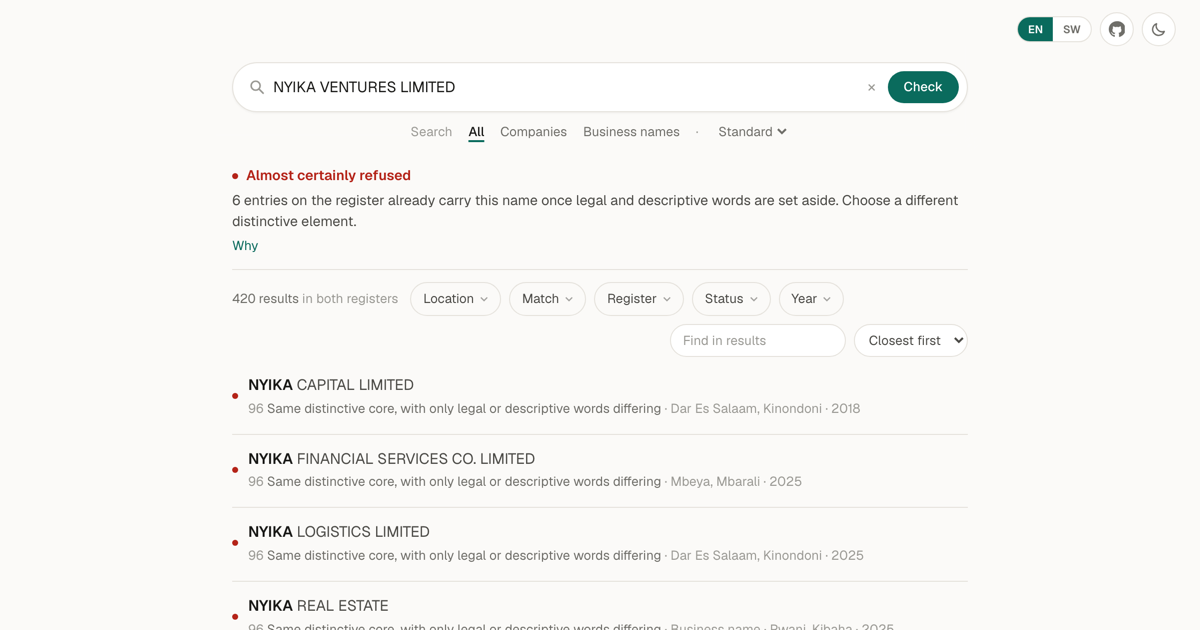
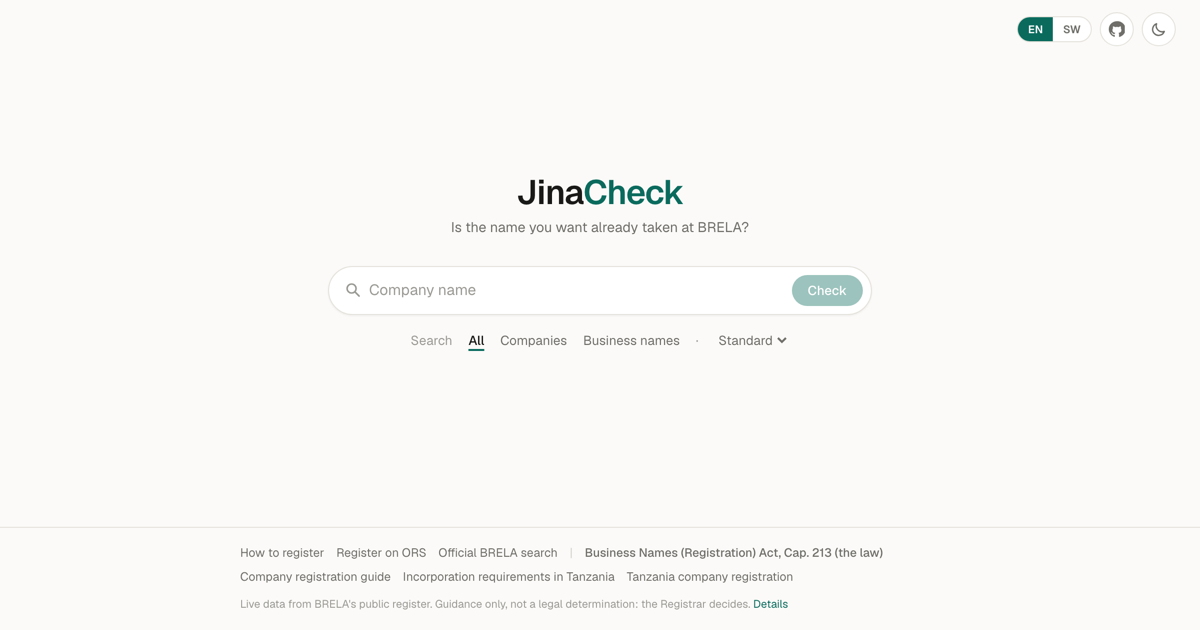
feat: update copy functionality with a menu for selecting copy options

diff --git a/src/components/ui.tsx b/src/components/ui.tsx
@@ -54,74 +54,116 @@ async function copyText(text: string): Promise<boolean> {
 }
 
 /**
- * Icon button that copies `value` and briefly confirms.
+ * Copy button with a choice of what to copy.
  *
- * Hidden until the row is hovered on pointer devices, but always visible on
- * small screens, where there is no hover to reveal it.
+ * A register entry is useful two ways: the bare name, to paste into a form, and
+ * the whole record, to keep alongside it. Rather than guess, the button opens a
+ * short menu. It stays visible while that menu is open, otherwise it would
+ * vanish the moment the pointer left the row.
  */
-export function CopyButton({
-  value,
+export function CopyMenu({
+  options,
   label = "Copy",
   doneLabel = "Copied",
 }: {
-  value: string;
+  options: Array<{ label: string; value: string }>;
   label?: string;
   doneLabel?: string;
 }) {
-  const [state, setState] = useState<"idle" | "done" | "failed">("idle");
+  const [open, setOpen] = useState(false);
+  const [done, setDone] = useState(false);
+  const ref = useRef<HTMLDivElement>(null);
 
   useEffect(() => {
-    if (state === "idle") return;
-    const id = setTimeout(() => setState("idle"), 1600);
+    if (!open) return;
+    const onDown = (e: MouseEvent) => {
+      if (ref.current && !ref.current.contains(e.target as Node)) setOpen(false);
+    };
+    const onKey = (e: KeyboardEvent) => {
+      if (e.key === "Escape") setOpen(false);
+    };
+    document.addEventListener("mousedown", onDown);
+    document.addEventListener("keydown", onKey);
+    return () => {
+      document.removeEventListener("mousedown", onDown);
+      document.removeEventListener("keydown", onKey);
+    };
+  }, [open]);
+
+  useEffect(() => {
+    if (!done) return;
+    const id = setTimeout(() => setDone(false), 1600);
     return () => clearTimeout(id);
-  }, [state]);
+  }, [done]);
 
   return (
-    <button
-      type="button"
-      onClick={async (e) => {
-        e.stopPropagation();
-        setState((await copyText(value)) ? "done" : "failed");
-      }}
-      title={state === "done" ? doneLabel : label}
-      aria-label={label}
-      className={`shrink-0 rounded p-1 transition-opacity hover:bg-raised focus-visible:opacity-100 sm:opacity-0 sm:group-hover:opacity-100 ${
-        state === "done" ? "text-clear sm:opacity-100" : "text-faint hover:text-ink"
-      }`}
-    >
-      {state === "done" ? (
-        <svg viewBox="0 0 16 16" className="size-3.5" aria-hidden>
-          <path
-            d="M3.5 8.5l3 3 6-7"
-            fill="none"
-            stroke="currentColor"
-            strokeWidth="1.6"
-            strokeLinecap="round"
-            strokeLinejoin="round"
-          />
-        </svg>
-      ) : (
-        <svg viewBox="0 0 16 16" className="size-3.5" aria-hidden>
-          <rect
-            x="5.5"
-            y="5.5"
-            width="8"
-            height="8"
-            rx="1.5"
-            fill="none"
-            stroke="currentColor"
-            strokeWidth="1.3"
-          />
-          <path
-            d="M10.5 3.5v-1a1 1 0 0 0-1-1h-6a1 1 0 0 0-1 1v6a1 1 0 0 0 1 1h1"
-            fill="none"
-            stroke="currentColor"
-            strokeWidth="1.3"
-            strokeLinecap="round"
-          />
-        </svg>
+    <div ref={ref} className="relative">
+      <button
+        type="button"
+        onClick={(e) => {
+          e.stopPropagation();
+          setOpen((s) => !s);
+        }}
+        title={done ? doneLabel : label}
+        aria-label={label}
+        aria-expanded={open}
+        className={`shrink-0 rounded p-1 transition-opacity hover:bg-raised focus-visible:opacity-100 sm:opacity-0 sm:group-hover:opacity-100 ${
+          done ? "text-clear sm:opacity-100" : "text-faint hover:text-ink"
+        } ${open ? "bg-raised text-ink sm:opacity-100" : ""}`}
+      >
+        {done ? (
+          <svg viewBox="0 0 16 16" className="size-3.5" aria-hidden>
+            <path
+              d="M3.5 8.5l3 3 6-7"
+              fill="none"
+              stroke="currentColor"
+              strokeWidth="1.6"
+              strokeLinecap="round"
+              strokeLinejoin="round"
+            />
+          </svg>
+        ) : (
+          <svg viewBox="0 0 16 16" className="size-3.5" aria-hidden>
+            <rect
+              x="5.5"
+              y="5.5"
+              width="8"
+              height="8"
+              rx="1.5"
+              fill="none"
+              stroke="currentColor"
+              strokeWidth="1.3"
+            />
+            <path
+              d="M10.5 3.5v-1a1 1 0 0 0-1-1h-6a1 1 0 0 0-1 1v6a1 1 0 0 0 1 1h1"
+              fill="none"
+              stroke="currentColor"
+              strokeWidth="1.3"
+              strokeLinecap="round"
+            />
+          </svg>
+        )}
+      </button>
+
+      {open && (
+        <div className="absolute right-0 z-30 mt-1 w-max min-w-32 overflow-hidden rounded-lg border border-line bg-surface py-1 shadow-(--shadow-md)">
+          {options.map((o) => (
+            <button
+              key={o.label}
+              type="button"
+              onClick={async (e) => {
+                e.stopPropagation();
+                setOpen(false);
+                setDone(await copyText(o.value));
+              }}
+              className="block w-full px-3 py-1.5 text-left text-[13px] text-ink-soft hover:bg-raised hover:text-ink"
+            >
+              {o.label}
+            </button>
+          ))}
+        </div>
       )}
-    </button>
+    </div>
   );
 }
 

diff --git a/src/components/result-row.tsx b/src/components/result-row.tsx
@@ -4,7 +4,7 @@ import { useState } from "react";
 
 import type { ScoredEntity } from "@/lib/types";
 import { useCopy } from "./lang";
-import { CopyButton, Dot } from "./ui";
+import { CopyMenu, Dot } from "./ui";
 
 function formatDate(value: string | null): string | null {
   if (!value) return null;
@@ -57,6 +57,22 @@ export function ResultRow({ entity, terms }: { entity: ScoredEntity; terms: stri
     closed ? t.closedNote : null,
     entity.hasCharges ? t.chargesNote : null,
   ].filter(Boolean);
+
+  /** The whole record as pasteable text, labelled in the current language. */
+  const detailText = [
+    entity.name,
+    `${t.register}: ${entity.objectType === "ET-COMPANY" ? t.company : t.businessName}`,
+    `${t.status}: ${entity.status ?? "—"}`,
+    entity.subtype ? `${t.legalForm}: ${entity.subtype}` : null,
+    entity.regDate ? `${t.registeredOn}: ${formatDate(entity.regDate)}` : null,
+    entity.certNumber ? `${t.certificateNo}: ${entity.certNumber}` : null,
+    entity.trackingNo ? `${t.trackingNo}: ${entity.trackingNo}` : null,
+    entity.cessDate ? `${t.ceased}: ${formatDate(entity.cessDate)}` : null,
+    entity.hasCharges ? `${t.charges}: ${t.chargesRegistered}` : null,
+    entity.address ? `${t.address}: ${entity.address}` : null,
+  ]
+    .filter(Boolean)
+    .join("\n");
 
   return (
     <li className="group py-3.5">
@@ -121,7 +137,14 @@ export function ResultRow({ entity, terms }: { entity: ScoredEntity; terms: stri
         {/* Sibling of the row toggle, not a child: a button cannot nest inside
             another button. */}
         <span className="mt-0.5 shrink-0">
-          <CopyButton value={entity.name} label={t.copyName} />
+          <CopyMenu
+            label={t.copy}
+            doneLabel={t.copied}
+            options={[
+              { label: t.copyName, value: entity.name },
+              { label: t.copyAll, value: detailText },
+            ]}
+          />
         </span>
       </div>
     </li>

diff --git a/src/lib/i18n.ts b/src/lib/i18n.ts
@@ -85,7 +85,9 @@ export interface Copy {
   sortOldest: string;
 
   // result row
+  copy: string;
   copyName: string;
+  copyAll: string;
   copied: string;
   couldNotCopy: string;
   matchType: string;
@@ -195,7 +197,9 @@ const en: Copy = {
   sortNewest: "Newest",
   sortOldest: "Oldest",
 
-  copyName: "Copy name",
+  copy: "Copy",
+  copyName: "Name only",
+  copyAll: "All details",
   copied: "Copied",
   couldNotCopy: "Could not copy",
   matchType: "Match type",
@@ -339,7 +343,9 @@ const sw: Copy = {
   sortNewest: "Mapya zaidi",
   sortOldest: "Ya zamani zaidi",
 
-  copyName: "Nakili jina",
+  copy: "Nakili",
+  copyName: "Jina pekee",
+  copyAll: "Maelezo yote",
   copied: "Limenakiliwa",
   couldNotCopy: "Imeshindikana kunakili",
   matchType: "Aina ya ulinganifu",
